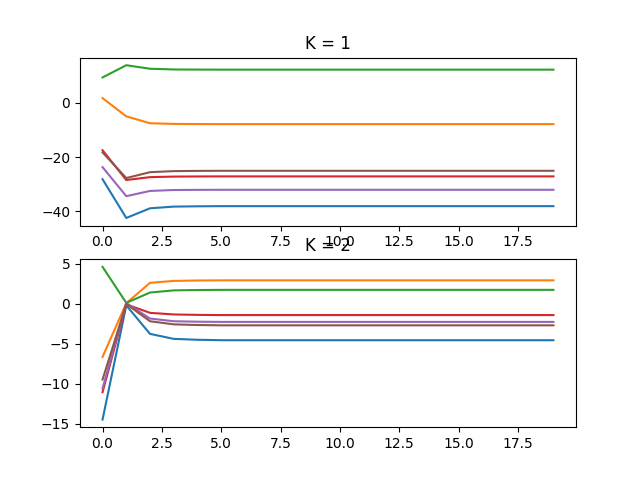
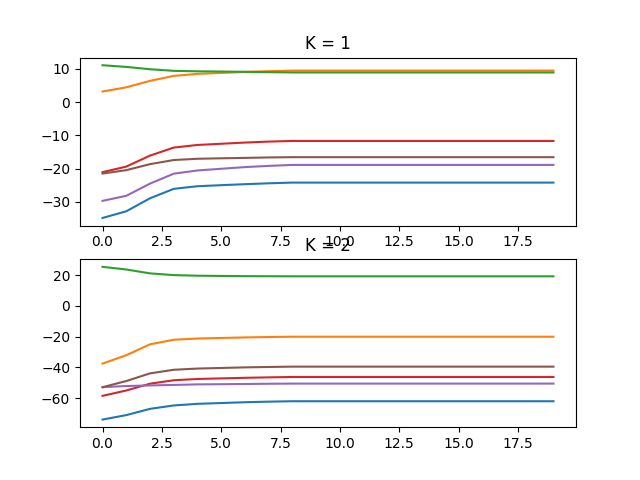
corrected KMeans algorithm and added KMeans++ initialization, Pending: implement error metric inside the class

diff --git a/assignment1/KMeans.py b/assignment1/KMeans.py
@@ -8,19 +8,37 @@ import os
 # no need to implement normalization or standardization here itself. will 
 # put it in the main.py itself.
 class KMeansClustering:
-    def __init__(self, K, initializer = 'random'):
+    def __init__(self, K, initializer = 'KMeans++'):
         """
         in model.fit() give the dataframe object directly
         K (int)
         intializer = 'random' or 'KMeans++'
         """
         self.K = K
+        self.initr = initializer
 
 
     def random_initializer(self, shape):
         # shape should be a numpy array of shape [471, 6]
-        return np.random.rand(self.K,shape[1])
+        return 100*np.random.rand(self.K,shape[1])
         # returning K random centroids
+
+    def KMeansPlusPlus(self, X, K):
+        centroids = []
+        num_samples = X.shape[0]
+        features = X.shape[1]
+        ind = np.random.randint(0, num_samples, 1)
+        centroids.append(X[ind].flatten())
+        for i in range(self.K - 1):
+            distances = np.zeros(shape = [num_samples, len(centroids)])
+            for j in range(len(centroids)):
+                cen = np.array(centroids[i]).reshape(1, features)
+                distances[:,i] = np.sqrt(np.sum((X-cen)**2, axis = 1))
+            min_dist_from_nearest_cen = np.min(distances, axis = 1)
+            next_centroid = X[np.argmax(min_dist_from_nearest_cen)]
+            centroids.append(next_centroid)
+        
+        return np.array(centroids)
 
     def fit(self, X, max_iter = 20):
         """
@@ -30,31 +48,41 @@ class KMeansClustering:
             X = X.to_numpy()
         except Exception as e:
             print("could not convert input data to numpy array")
-        centroids = self.random_initializer(X.shape)
+
+        if(self.initr == 'KMeans++'):
+            centroids = self.KMeansPlusPlus(X, self.K)
+        else:
+            centroids = self.random_initializer(X.shape)
         class_index = None
         log_centroids = np.zeros(shape = [self.K, max_iter, X.shape[1]])
+        num_samples = X.shape[0]
+        features = X.shape[1]
         for iter in range(max_iter):
+            distances = np.zeros(shape = [num_samples, self.K])
+            for i in range(self.K):
+                cen = centroids[i].reshape(1,features)
+                distances[:,i] = np.sqrt(np.sum((X-cen)**2, axis=1))
 
-            distances = self.euc_dist(centroids, X)
             class_index = np.argmin(distances, axis = 1, keepdims=True)
+            # for j in range(self.K):
+            #     centroids[j] = np.sum(X*(class_index==j), axis= 0)/num_samples
+            #     log_centroids[j][iter] = centroids[j]
+            
+            
             for j in range(self.K):
-                centroids[j] = np.sum(X*(class_index==j), axis= 0)/X.shape[0]
+                num_samples_in_class_j = np.sum(class_index==j)
+                if(num_samples_in_class_j == 0):
+                    continue
+                      
+                centroids[j] = np.sum(X*(class_index==j), axis= 0)/num_samples_in_class_j
                 log_centroids[j][iter] = centroids[j]
 
         self.plot_transition(log_centroids)
+        print(centroids)
         return class_index 
 
-
-    def euc_dist(self, centroids, samples):
-        """
-        centroids: shape [K, 6]
-        dataset: shape [N, 6]
-        distances : shape [N, K]
-        """
-        dist_vec = np.zeros(shape = [self.K, samples.shape[0]])
-        for i in range(self.K):
-            dist_vec[i] = np.sqrt(np.sum(np.square(centroids[i] - samples), axis = 1)).reshape(1,samples.shape[0])     
-        return dist_vec.T
+    def sum_of_squared_errors(self,data, centroids, classes):
+        pass
         
     def plot_transition(self, log_centroids):
         fig, ax = plt.subplots(self.K, 1)
@@ -69,7 +97,7 @@ class KMeansClustering:
 
 
 if __name__ == "__main__":
-    KMeans = KMeansClustering(K = 3)
+    KMeans = KMeansClustering(K = 2)
     df = pd.read_csv('./data/covid_data_india.csv', index_col = None)
     df = df.iloc[:, 1:7]
     classes = KMeans.fit(df)
